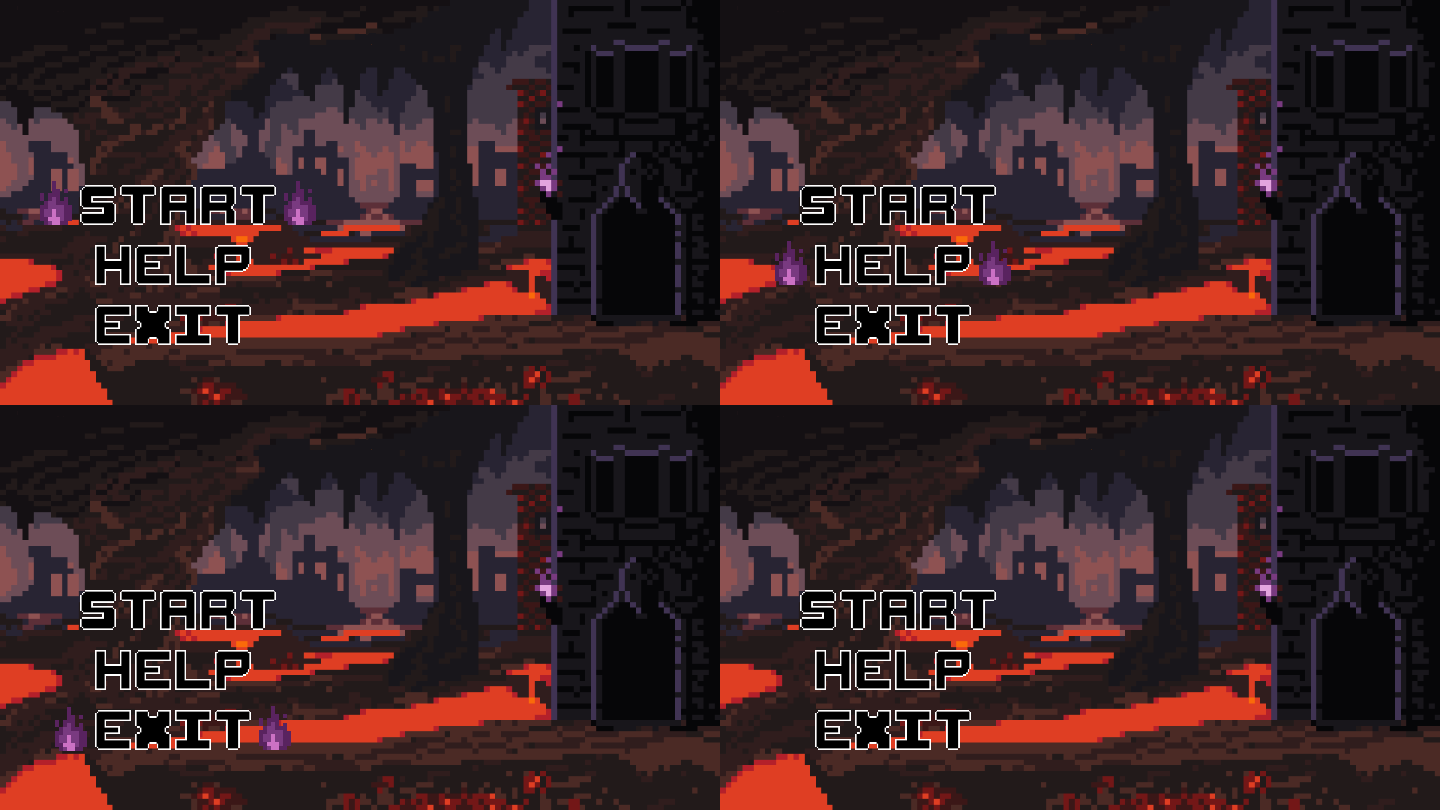
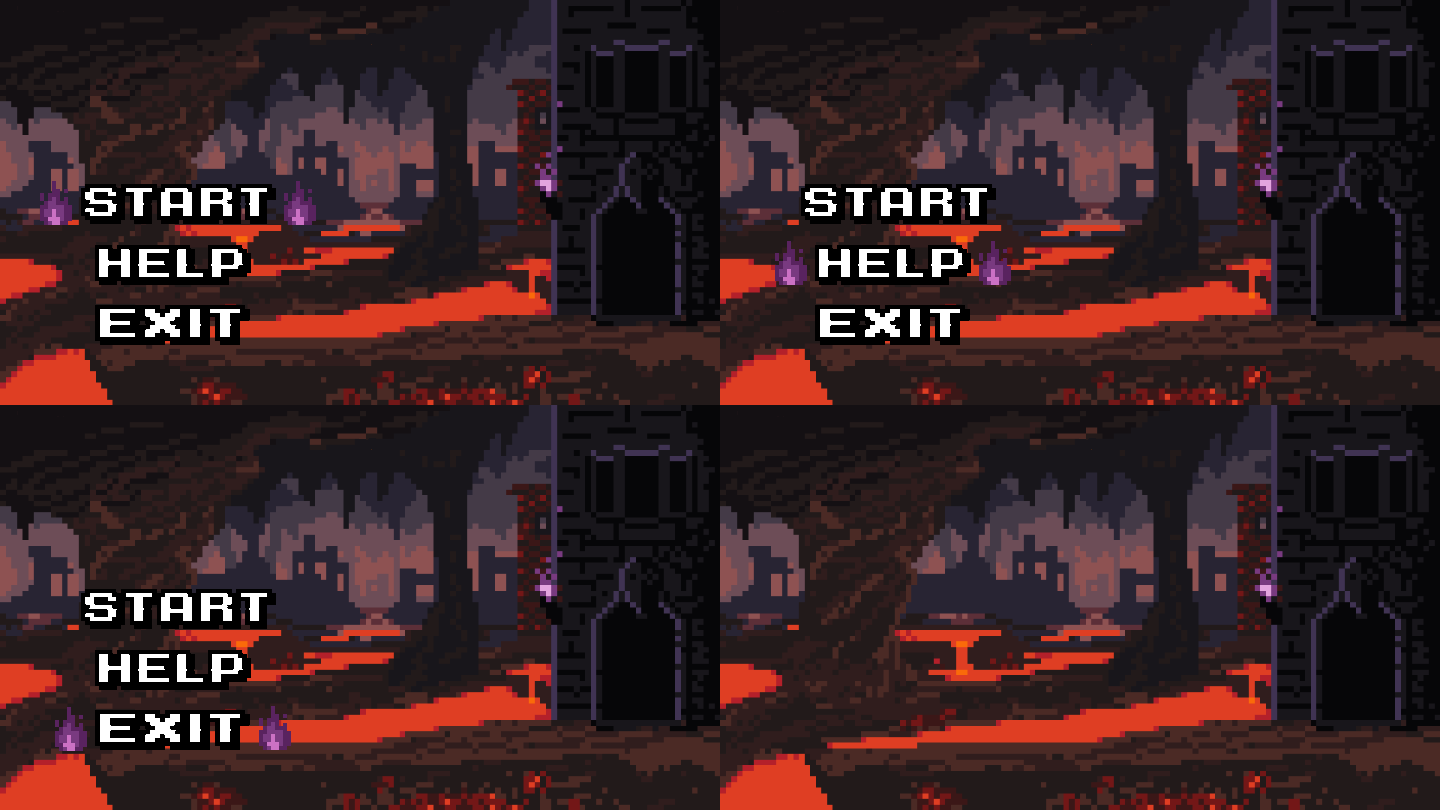
jumping refractor

diff --git a/02-Bubble/02-Bubble/TileMap.cpp b/02-Bubble/02-Bubble/TileMap.cpp
@@ -82,18 +82,13 @@ bool TileMap::collisionMoveLeft(const glm::ivec2& pos, const glm::ivec2& size, b
 	x = pos.x / tileSize;
 	y0 = pos.y / tileSize;
 	y1 = (pos.y + size.y - 1) / tileSize;
-	for (int y = y0; y <= y1; y++)
+	for (int y = y0; y < y1; y++)
 	{
 		int tile = map[y * mapSize.x + x];
 		if (!bCrossPlattforms && tile != 0)
 			return true;
-		else if (tile == 6)
+		else if (tile == 6 || tile == 2 || tile == 4)
 			return true;
-		//if ((tile == 5 || tile == 6) || (!bCrossPlattforms && tile != 0))
-		//	return true;
-
-		//if (map[y * mapSize.x + x] == 3)
-		//	return true;
 	}
 	return false;
 }
@@ -110,12 +105,8 @@ bool TileMap::collisionMoveRight(const glm::ivec2& pos, const glm::ivec2& size, 
 		int tile = map[y * mapSize.x + x];
 		if (!bCrossPlattforms && tile != 0)
 			return true;
-		else if (tile == 6)
+		else if (tile == 6 || tile == 2 || tile == 4)
 			return true;
-		//if ((tile == 5 || tile == 6) || (!bCrossPlattforms && tile != 0))
-		//	return true;
-		//if (map[y * mapSize.x + x] == 3)
-		//	return true;
 	}
 	return false;
 }
@@ -149,9 +140,8 @@ bool TileMap::collisionMoveDown(const glm::ivec2& pos, const glm::ivec2& size, i
 	for (int x = x0; x <= x1; x++)
 	{
 		int tile = map[y * mapSize.x + x];
-		if (tile == 5 || tile == 6) //Y ES PLAYER
-			return false;
-		else if (tile != 0)
+		
+		if (tile != 0)
 		//if (tile != 0 && tile != 5 && tile != 6)
 		{
 			if (*posY - tileSize * y + size.y <= 4)

diff --git a/02-Bubble/02-Bubble/SceneInterface.cpp b/02-Bubble/02-Bubble/SceneInterface.cpp
@@ -102,7 +102,8 @@ void SceneInterface::render()
 
 void SceneInterface::initNumberSprite(ShaderProgram& shaderProgram)
 {
-	numbersSpritesheet.loadFromFile("images/numbers.png", TEXTURE_PIXEL_FORMAT_RGBA);
+	//numbersSpritesheet.loadFromFile("images/numbers.png", TEXTURE_PIXEL_FORMAT_RGBA);
+	numbersSpritesheet.loadFromFile("images/numberss.png", TEXTURE_PIXEL_FORMAT_RGBA);
 	numbersSpritesheet.setMagFilter(GL_NEAREST);
 	numberSprite = Sprite::createSprite(glm::ivec2(16, 16), glm::vec2(0.1, 1), &numbersSpritesheet, &shaderProgram);
 	
@@ -117,7 +118,8 @@ void SceneInterface::initNumberSprite(ShaderProgram& shaderProgram)
 
 void SceneInterface::initCharacterSprite(ShaderProgram& shaderProgram)
 {
-	charactersSpritesheet.loadFromFile("images/characters.png", TEXTURE_PIXEL_FORMAT_RGBA);
+	//charactersSpritesheet.loadFromFile("images/characters.png", TEXTURE_PIXEL_FORMAT_RGBA);
+	charactersSpritesheet.loadFromFile("images/chars.png", TEXTURE_PIXEL_FORMAT_RGBA);
 	charactersSpritesheet.setMagFilter(GL_NEAREST);
 	characterSprite = Sprite::createSprite(glm::ivec2(16, 16), glm::vec2(0.25, 0.25), &charactersSpritesheet, &shaderProgram);
 

diff --git a/02-Bubble/02-Bubble/Player.cpp b/02-Bubble/02-Bubble/Player.cpp
@@ -136,7 +136,7 @@ void Player::update(int deltaTime)
 			if (sprite->animation() != MOVE_LEFT && !bInvincible && !inmunityState && !bJumping)
 				sprite->changeAnimation(MOVE_LEFT);
 			posPlayer.x -= 2;
-			if (map->collisionMoveLeft(posPlayer, glm::ivec2(32, 32), bJumping))
+			if (map->collisionMoveLeft(posPlayer, glm::ivec2(32, 32), true))
 			{
 				posPlayer.x += 2;
 
@@ -150,7 +150,7 @@ void Player::update(int deltaTime)
 			if (sprite->animation() != MOVE_RIGHT && !bInvincible && !inmunityState && !bJumping)
 				sprite->changeAnimation(MOVE_RIGHT);
 			posPlayer.x += 2;
-			if (map->collisionMoveRight(posPlayer, glm::ivec2(32, 32), bJumping))
+			if (map->collisionMoveRight(posPlayer, glm::ivec2(32, 32), true))
 			{
 				posPlayer.x -= 2;
 				if (!bInvincible && !inmunityState)

diff --git a/02-Bubble/02-Bubble/Game.cpp b/02-Bubble/02-Bubble/Game.cpp
@@ -10,6 +10,7 @@ void Game::init()
 	initShaders();
 	bPlay = true;
 	glClearColor(0.05f, 0.05f, 0.05f, 1.0f);
+	//glClearColor(1.0f, 1.0f, 1.0f, 1.0f);
 	menu.init(texProgram);
 
 	bMenuShowing = true;
@@ -41,7 +42,10 @@ void Game::render()
 	renderProjection();
 
 	if (bMenuShowing)
+	{
 		menu.render();
+		updateRatioWindowSize(glutGet(GLUT_WINDOW_WIDTH),glutGet(GLUT_WINDOW_HEIGHT));
+	}
 	else
 		scene->render();
 }
